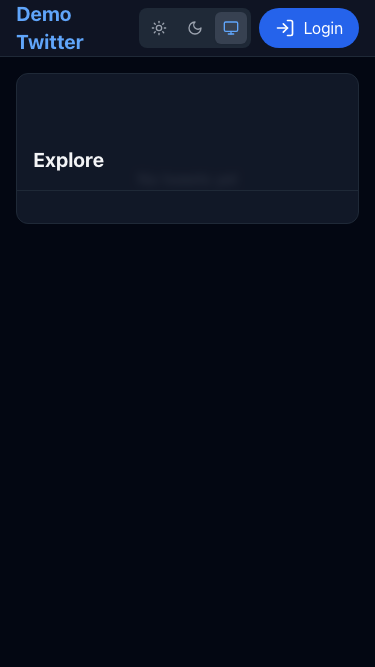
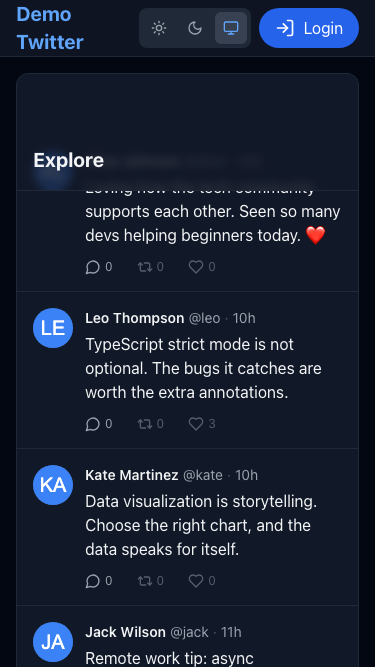
fix: screenshot script now properly connects web to API
- Add VITE_API_PORT env var to configure proxy target
- Update screenshot script to pass API port to vite
- Add API data availability check before screenshots
- Screenshots now show full timeline with tweets

diff --git a/scripts/screenshots.ts b/scripts/screenshots.ts
@@ -84,10 +84,14 @@ async function takeScreenshots() {
       });
       procs.push(apiProc);
 
-      // Start Web server  
+      // Start Web server (with API port for proxy)
       const webProc = spawn("pnpm", ["vite", "--port", WEB_PORT.toString()], {
         cwd: "apps/web",
         stdio: "pipe",
+        env: {
+          ...process.env,
+          VITE_API_PORT: API_PORT.toString(),
+        },
       });
       procs.push(webProc);
 
@@ -95,7 +99,25 @@ async function takeScreenshots() {
       await waitForServer(`http://localhost:${API_PORT}`);
       console.log("  API ready");
       await waitForServer(`http://localhost:${WEB_PORT}`);
-      console.log("  Web ready\n");
+      console.log("  Web ready");
+      
+      // Wait for API to return tweets (database might take a moment)
+      let retries = 0;
+      while (retries < 10) {
+        try {
+          const res = await fetch(`http://localhost:${API_PORT}/timeline/public`);
+          const data = await res.json() as { tweets: unknown[] };
+          if (data.tweets && data.tweets.length > 0) {
+            console.log(`  API has ${data.tweets.length} tweets\n`);
+            break;
+          }
+        } catch { /* ignore */ }
+        retries++;
+        await new Promise(r => setTimeout(r, 1000));
+      }
+      if (retries >= 10) {
+        console.log("  Warning: No tweets in API, screenshots may be empty\n");
+      }
     }
 
     console.log(`Taking screenshots from ${baseUrl}...\n`);
@@ -107,8 +129,8 @@ async function takeScreenshots() {
 
       try {
         await page.goto(`${baseUrl}${shot.path}`, {
-          waitUntil: "domcontentloaded",
-          timeout: 10000,
+          waitUntil: "networkidle",
+          timeout: 15000,
         });
         
         // Set dark mode if needed
@@ -120,7 +142,16 @@ async function takeScreenshots() {
           await page.waitForTimeout(500);
         }
         
-        await page.waitForTimeout(1500); // Wait for React to render
+        // Wait for tweets to load (look for tweet cards)
+        if (shot.path === "/") {
+          try {
+            await page.waitForSelector("article", { timeout: 5000 });
+          } catch {
+            console.log(`  Warning: No tweets found for ${shot.name}`);
+          }
+        }
+        
+        await page.waitForTimeout(1000); // Extra time for rendering
 
         await page.screenshot({
           path: `${outDir}/${shot.name}.png`,

diff --git a/apps/web/vite.config.ts b/apps/web/vite.config.ts
@@ -2,6 +2,8 @@ import { defineConfig } from "vite";
 import react from "@vitejs/plugin-react";
 import path from "path";
 
+const API_PORT = process.env.VITE_API_PORT || "8787";
+
 export default defineConfig({
   plugins: [react()],
   resolve: {
@@ -13,7 +15,7 @@ export default defineConfig({
     port: 5173,
     proxy: {
       "/api": {
-        target: "http://localhost:8787",
+        target: `http://localhost:${API_PORT}`,
         changeOrigin: true,
         rewrite: (path) => path.replace(/^\/api/, ""),
       },
